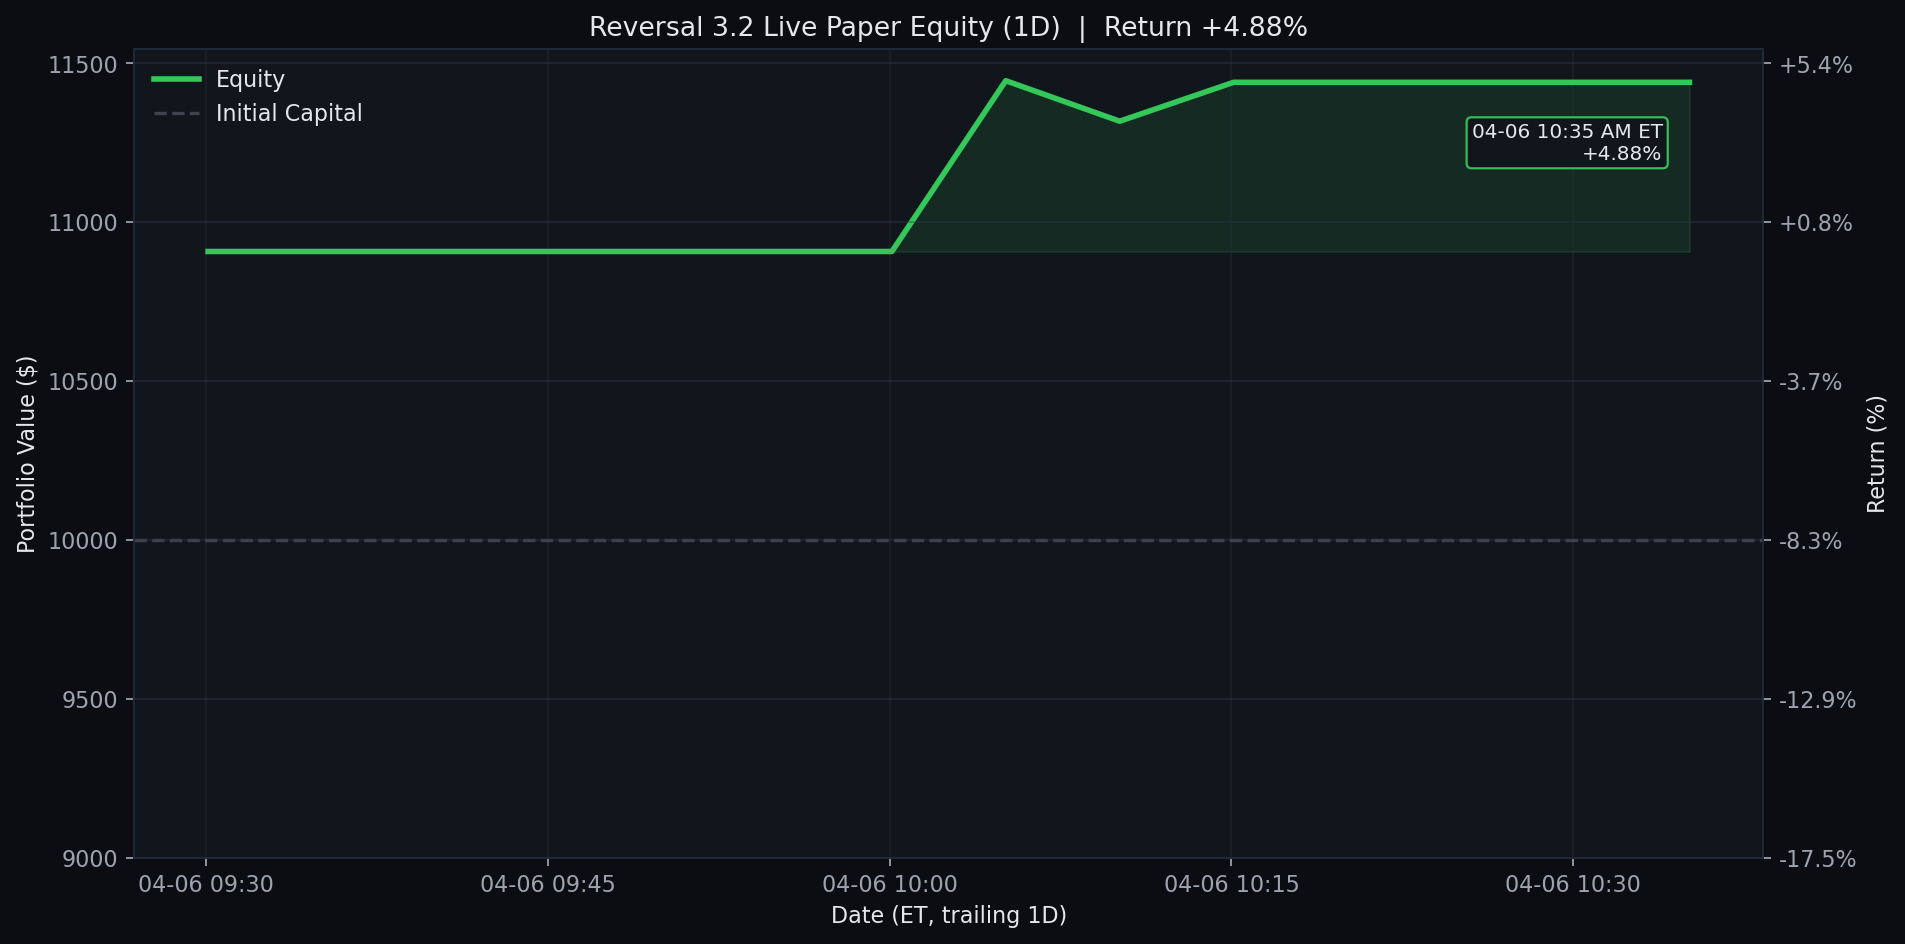
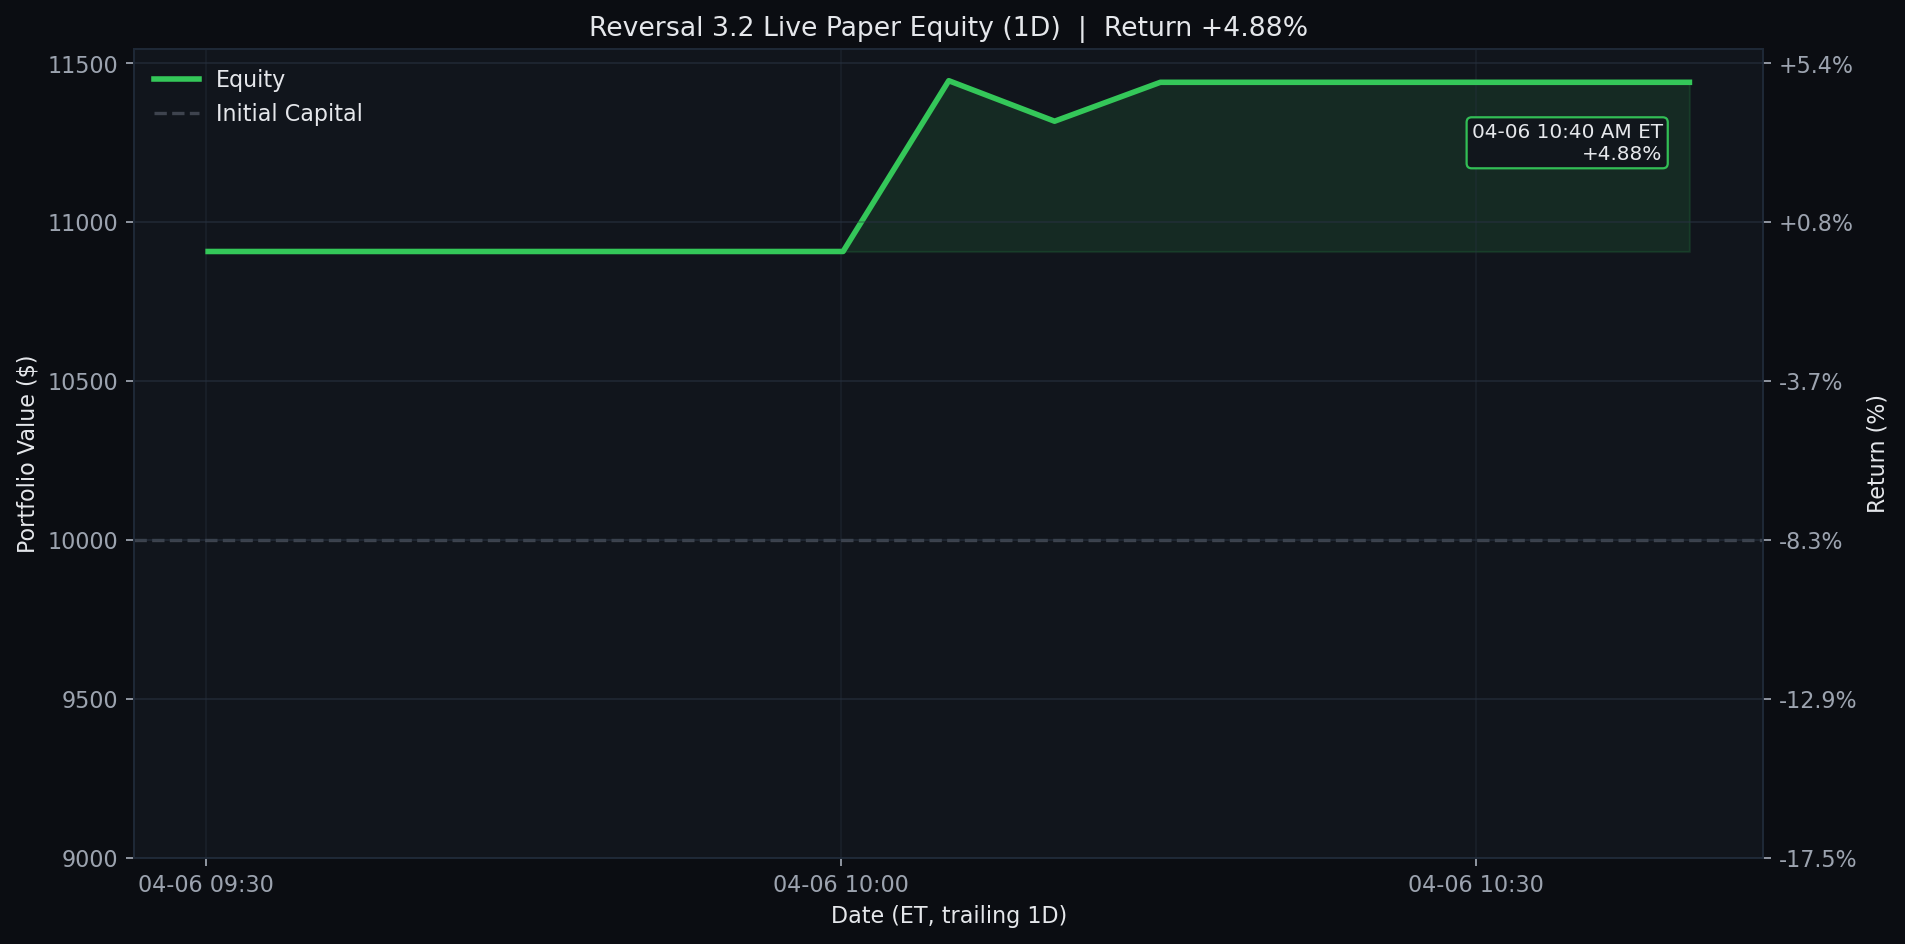
Update Reversal 3.2 live paper test 2026-04-06 10:40 ET

diff --git a/results/reversal_3_2_live/README.md b/results/reversal_3_2_live/README.md
@@ -1,6 +1,6 @@
 # Reversal 3.2 Live Paper Test
 
-Last updated (ET): `2026-04-06 10:35:05 EDT`
+Last updated (ET): `2026-04-06 10:40:05 EDT`
 Last processed slot: `manage_1030`
 
 ## Active Configuration
@@ -40,24 +40,25 @@ ticker    contract_symbol entry_trade_date_et exit_trade_date_et  entry_option_p
 
 ```text
 ticker  success_rate_%  matched_signals  current_drop_%  target_rebound_$  target_price  rolling_sigma_20d_%  call_candidate
-  AVGO           89.74               39            0.93              2.05        313.67                41.04            True
-  CDNS           88.89               45            0.56              1.10        278.25                25.28            True
-  ASML           84.00               25            1.53             14.09       1311.19                51.28            True
-  CRWD           81.40               43            0.76              2.12        398.21                42.36            True
-  MELI           80.95               42            0.68              8.19       1712.01                39.93            True
-  DDOG           80.00               20            3.37              2.84        119.14                49.88            True
-  FANG          100.00               29            0.26              0.35        193.73                28.70           False
-   HON          100.00               25            0.47              0.76        229.13                20.57           False
-  FTNT           93.88               49            0.13              0.08         82.50                30.26           False
-   XEL           93.75               32            0.02              0.01         80.74                19.13           False
-  FAST           93.02               43            0.33              0.11         46.25                21.85           False
-  NVDA           92.50               40            0.34              0.42        177.21                36.70           False
+   HON          100.00               20            0.75              1.21        228.93                20.57            True
+  FAST           91.18               34            0.64              0.21         46.21                21.85            True
+  CDNS           90.70               43            0.81              1.59        278.04                25.28            True
+  AVGO           88.89               36            0.98              2.16        313.62                41.04            True
+  TSLA           84.62               39            0.53              1.34        360.01                42.35            True
+  ASML           82.61               23            1.62             14.93       1310.83                51.28            True
+  CTSH           82.35               34            0.70              0.31         62.41                26.11            True
+  MELI           81.58               38            0.95             11.44       1710.62                39.93            True
+  CRWD           80.00               40            0.87              2.43        398.08                42.36            True
+  FANG          100.00               30            0.18              0.25        193.77                28.70           False
+  FTNT           93.48               46            0.31              0.18         82.45                30.26           False
+  NVDA           92.11               38            0.39              0.48        177.18                36.70           False
 ```
 
 ## Recent Events
 
 ```text
                     timestamp_et        slot   event_type                                                                                                                                 detail
+2026-04-06T10:40:05.887120-04:00 manage_1030 slot_skipped                                                                                                        {"reason": "already_processed"}
 2026-04-06T10:35:05.885229-04:00 manage_1030 slot_skipped                                                                                                        {"reason": "already_processed"}
 2026-04-06T10:30:05.886948-04:00 manage_1030 slot_skipped                                                                                                        {"reason": "already_processed"}
 2026-04-06T10:25:05.896716-04:00 manage_1030 slot_skipped                                                                                                        {"reason": "already_processed"}
@@ -67,7 +68,6 @@ ticker  success_rate_%  matched_signals  current_drop_%  target_rebound_$  targe
 2026-04-06T10:00:06.219713-04:00 manage_1000 slot_skipped                                                                                                        {"reason": "already_processed"}
 2026-04-06T09:55:02.509102-04:00 manage_1000 slot_skipped                                                                                                        {"reason": "already_processed"}
 2026-04-06T09:40:00.944679-04:00 manage_0930 slot_skipped                                                                                                        {"reason": "already_processed"}
-2026-04-06T09:35:05.895013-04:00 manage_0930 slot_skipped                                                                                                        {"reason": "already_processed"}
 ```
 
 ## Equity Curves

diff --git a/README.md b/README.md
@@ -3,7 +3,7 @@
 <!-- reversal-3.2-live:start -->
 ## Reversal 3.2 Live Paper Test
 
-- Last updated (ET): `2026-04-06 10:35:05 EDT`
+- Last updated (ET): `2026-04-06 10:40:05 EDT`
 - Equity: `$11,440.00` | Realized: `$1,440.00` | Unrealized: `$0.00` | Open positions: `0`
 - Today closed trades: `1`
 - Current slot: `manage_1030`
